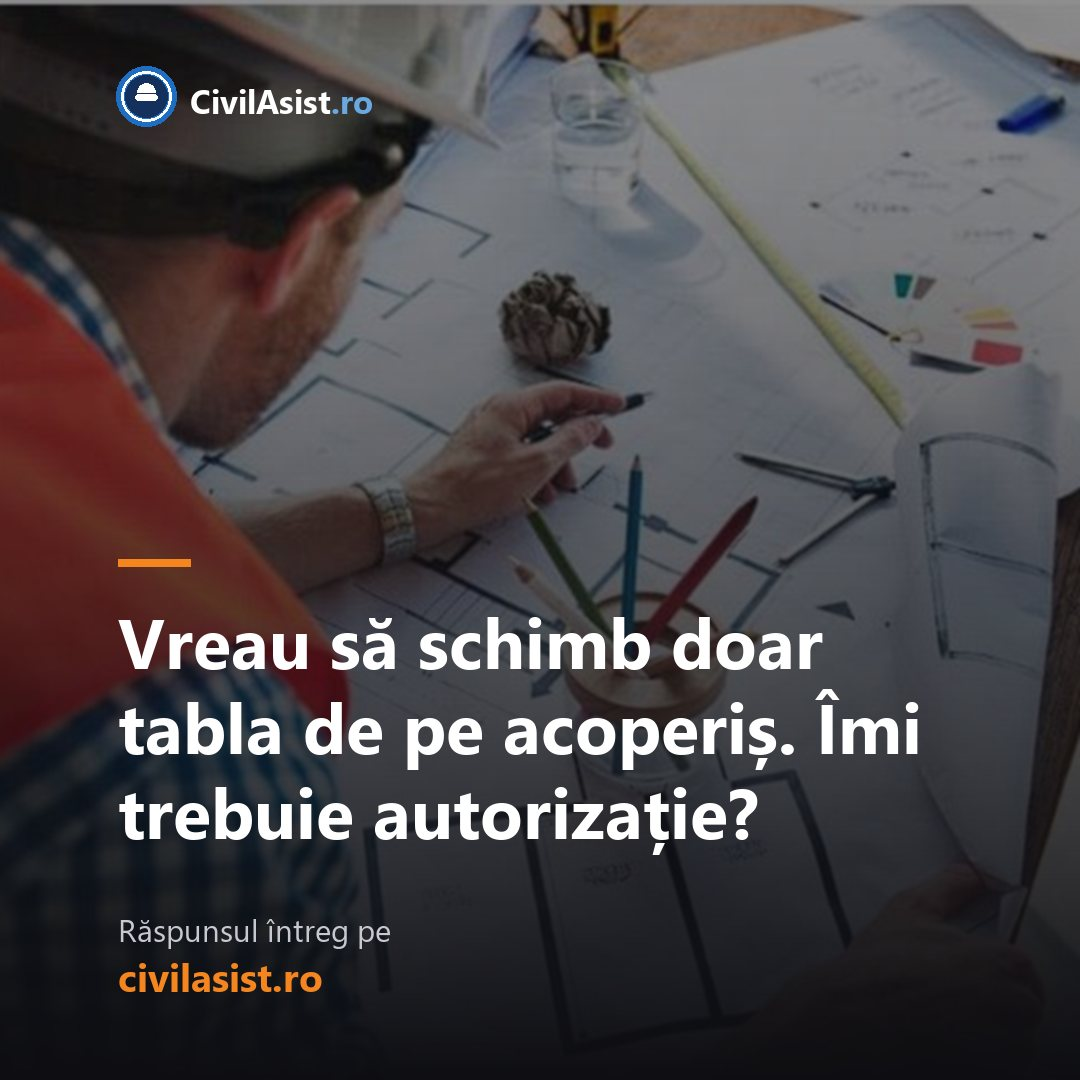
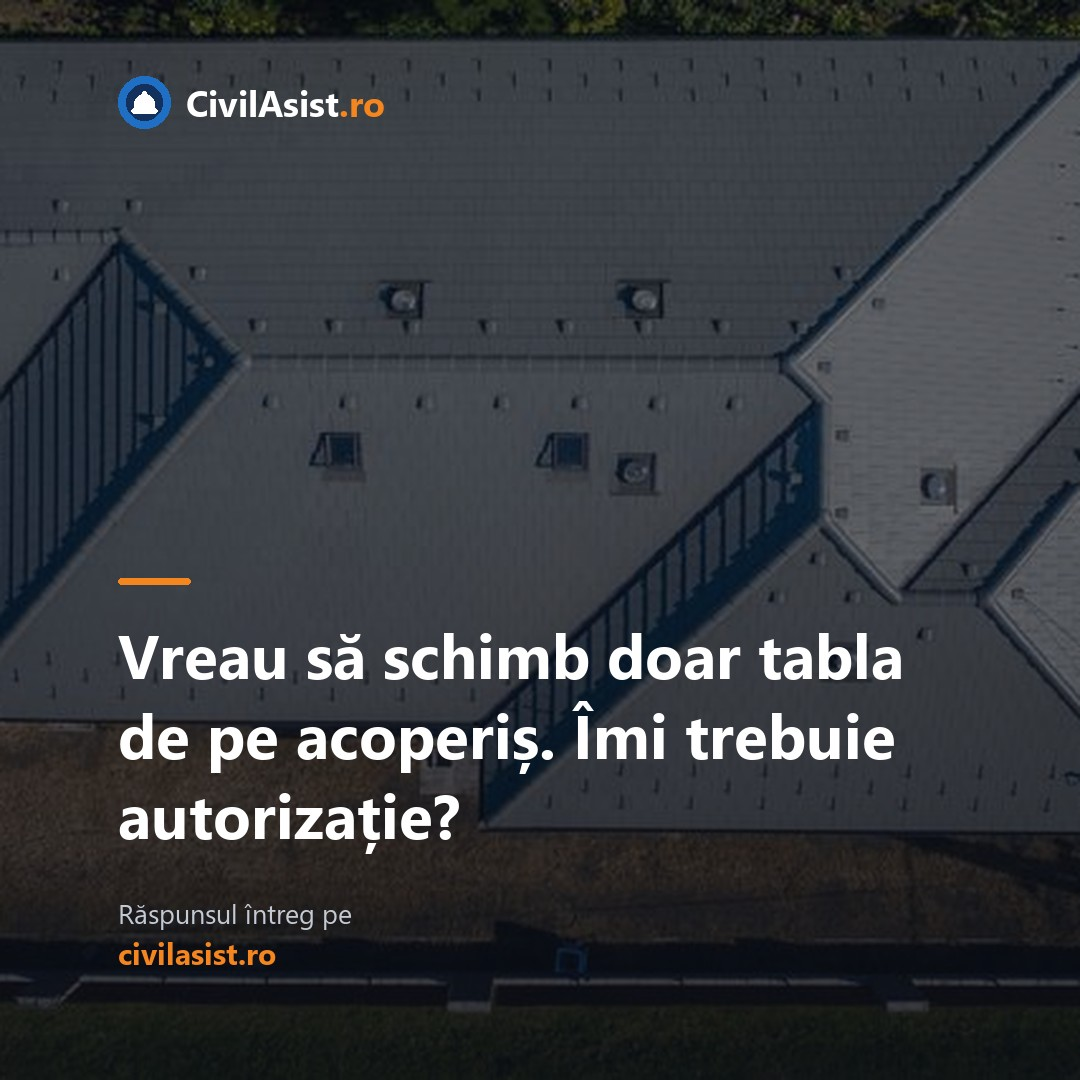
Trei imagini refacute si doua intrebari reformulate pentru postare
- 58: poza de stoc inlocuita cu acoperisul din drona, propriu
- 53: intrebarea reformulata ca sa se inteleaga rupta din ghid -
  Fazele determinante sunt obligatorii si la o casa mica?
- 44: centrala termica reala; intrebarea devine Ce se intampla daca
  a expirat verificarea tehnica periodica?
- blocul iscir reordonat, ca rotatia sa aleaga articolul de VTP
- adaugat unelte-fa-imagini-postari.py, generatorul imaginilor

diff --git a/ghiduri/faze-determinante.html b/ghiduri/faze-determinante.html
@@ -61,7 +61,7 @@
     },
     {
       "@type": "Question",
-      "name": "La o casă mică chiar sunt obligatorii?",
+      "name": "Fazele determinante sunt obligatorii și la o casă mică?",
       "acceptedAnswer": {
         "@type": "Answer",
         "text": "Da, dacă proiectul are program de control cu faze determinante — și aproape toate proiectele autorizate îl au. Mărimea construcției schimbă numărul fazelor și cine participă, nu obligația în sine."
@@ -217,7 +217,7 @@
     înlocuiește procesul-verbal în cartea tehnică.
   </p>
 
-  <h3 id="la-o-casa-mica-chiar-sunt">La o casă mică chiar sunt obligatorii?</h3>
+  <h3 id="la-o-casa-mica-chiar-sunt">Fazele determinante sunt obligatorii și la o casă mică?</h3>
   <p>
     Da, dacă proiectul are program de control cu faze determinante — și aproape toate proiectele
     autorizate îl au. Mărimea construcției schimbă numărul fazelor și cine participă, nu obligația

diff --git a/ghiduri/obligatii-iscir.html b/ghiduri/obligatii-iscir.html
@@ -53,7 +53,7 @@
     },
     {
       "@type": "Question",
-      "name": "Ce se întâmplă dacă a expirat verificarea?",
+      "name": "Ce se întâmplă dacă a expirat verificarea tehnică periodică?",
       "acceptedAnswer": {
         "@type": "Answer",
         "text": "Instalația nu mai are drept de funcționare. Trebuie oprită până la verificare. Exploatarea în afara termenului e contravenție și, la un incident, are consecințe mult mai grele."
@@ -226,7 +226,7 @@
     și vă anunță din timp.
   </p>
 
-  <h3 id="ce-se-intampla-daca-a-expirat">Ce se întâmplă dacă a expirat verificarea?</h3>
+  <h3 id="ce-se-intampla-daca-a-expirat">Ce se întâmplă dacă a expirat verificarea tehnică periodică?</h3>
   <p>
     Instalația nu mai are drept de funcționare. Trebuie oprită până la verificare. Exploatarea în
     afara termenului e contravenție și, la un incident, are consecințe mult mai grele.

diff --git a/unelte-fa-imagini-postari.py b/unelte-fa-imagini-postari.py
@@ -1,0 +1,109 @@
+# -*- coding: utf-8 -*-
+"""Construiește o imagine pătrată de postare: fotografie proprie, întunecată,
+cu emblema sus și întrebarea scrisă peste, în josul cadrului."""
+import io, sys
+from PIL import Image, ImageDraw, ImageFont, ImageFilter
+
+L = 1080                 # latura imaginii
+MARJA = 118              # 11% — sub asta scrisul se ciuntește în previzualizări
+BOLD = "C:/Windows/Fonts/segoeuib.ttf"
+SEMI = "C:/Windows/Fonts/seguisb.ttf"
+REG  = "C:/Windows/Fonts/segoeui.ttf"
+PORTOCALIU = (245, 133, 31)
+ALB = (255, 255, 255)
+
+
+def font(cale, dim):
+    try:
+        return ImageFont.truetype(cale, dim)
+    except OSError:
+        return ImageFont.truetype(BOLD, dim)
+
+
+def patrat(cale):
+    im = Image.open(cale).convert("RGB")
+    w, h = im.size
+    l = min(w, h)
+    im = im.crop(((w - l) // 2, (h - l) // 2, (w - l) // 2 + l, (h - l) // 2 + l))
+    return im.resize((L, L), Image.LANCZOS)
+
+
+def intunec(im):
+    """Voal uniform plus o umbră care se adâncește spre jos, unde stă scrisul."""
+    v = Image.new("RGB", (L, L), (14, 20, 30))
+    im = Image.blend(im, v, 0.42)
+    masca = Image.new("L", (1, L))
+    for y in range(L):
+        t = y / (L - 1)
+        masca.putpixel((0, y), int(20 + 150 * (t ** 1.7)))
+    masca = masca.resize((L, L))
+    return Image.composite(Image.new("RGB", (L, L), (10, 14, 22)), im, masca)
+
+
+def emblema(d, x, y):
+    r = 26
+    d.ellipse([x, y, x + 2 * r, y + 2 * r], fill=(31, 111, 196))
+    d.ellipse([x + 8, y + 8, x + 2 * r - 8, y + 2 * r - 8], fill=(20, 49, 94))
+    cx, cy = x + r, y + r
+    d.rounded_rectangle([cx - 2, cy - 11, cx + 2, cy - 6], radius=1, fill=ALB)
+    d.pieslice([cx - 10, cy - 8, cx + 10, cy + 12], 180, 360, fill=ALB)
+    d.rectangle([cx - 10, cy + 1, cx + 10, cy + 5], fill=ALB)
+    d.rounded_rectangle([cx - 13, cy + 6, cx + 13, cy + 11], radius=2, fill=ALB)
+    f = font(BOLD, 36)
+    d.text((x + 2 * r + 16, cy), "CivilAsist", font=f, fill=ALB, anchor="lm")
+    w = d.textlength("CivilAsist", font=f)
+    d.text((x + 2 * r + 16 + w, cy), ".ro", font=f, fill=PORTOCALIU, anchor="lm")
+
+
+def rupe(d, text, f, lat):
+    linii, curent = [], ""
+    for vorba in text.split():
+        prob = (curent + " " + vorba).strip()
+        if d.textlength(prob, font=f) <= lat:
+            curent = prob
+        else:
+            if curent:
+                linii.append(curent)
+            curent = vorba
+    if curent:
+        linii.append(curent)
+    return linii
+
+
+def fa(foto, intrebare, iesire):
+    im = intunec(patrat(foto))
+    d = ImageDraw.Draw(im)
+    emblema(d, MARJA, 76)
+
+    lat = L - 2 * MARJA
+    dim = 62
+    while dim > 34:
+        f = font(BOLD, dim)
+        linii = rupe(d, intrebare, f, lat)
+        if len(linii) <= 3:
+            break
+        dim -= 2
+    pas = int(dim * 1.30)
+
+    f_mic = font(REG, 27)
+    f_dom = font(BOLD, 30)
+    jos = L - MARJA
+    y_dom = jos - 30
+    y_mic = y_dom - 38
+    y_text = y_mic - 42 - len(linii) * pas
+
+    d.rounded_rectangle([MARJA, y_text - 34, MARJA + 72, y_text - 28], radius=3,
+                        fill=PORTOCALIU)
+    for i, ln in enumerate(linii):
+        d.text((MARJA, y_text + i * pas), ln, font=f, fill=ALB)
+    d.text((MARJA, y_mic), "Răspunsul întreg pe", font=f_mic, fill=(196, 202, 212))
+    d.text((MARJA, y_dom), "civilasist.ro", font=f_dom, fill=PORTOCALIU)
+
+    im.save(iesire, quality=90, optimize=True)
+    return len(linii), dim
+
+
+if __name__ == "__main__":
+    foto, intrebare, iesire = sys.argv[1], sys.argv[2], sys.argv[3]
+    n, dim = fa(foto, intrebare, iesire)
+    print("scris %s  (%d linii, corp %d)" % (iesire, n, dim))
